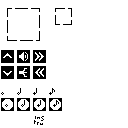
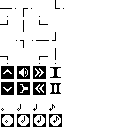
creates belt them dynamically, change atlas sheet

diff --git a/scripts/MusicTilemap.cs b/scripts/MusicTilemap.cs
@@ -4,14 +4,14 @@ using heigpdg2024.scripts.cells;
 
 public partial class MusicTilemap : TileMapLayer {
     [Export] private int _sourceId;
-    [Export] private int _terrainset;
-    [Export] private int _terrain;
 
     private Vector2I _atlasCoords;
-    private Vector2I _lastCell;
+    private Vector2I _lastCellCoords;
+    private Vector2I _lastDirection;
     private Vector2I _beltCoords = Vector2I.Zero;
-    private Vector2I _sourceCoords = new(1, 6);
+    private Vector2I _sourceCoords = new(1, 7);
     private Godot.Collections.Dictionary<Vector2I, bool> _busyCells = new();
+    private Godot.Collections.Dictionary<Vector2I, int> _directionIndexes = new();
 
     public override void _Ready() {
         //There can be only one MusicTilemap per active scene
@@ -19,14 +19,20 @@ public partial class MusicTilemap : TileMapLayer {
         ToolOptionButton toolOption = GetNode<ToolOptionButton>("ToolOptionButton");
         toolOption.ItemSelected += UpdateTool;
         toolOption.SelectedItem += UpdateTool;
+        
+        _directionIndexes.Add(Vector2I.Right, 0);
+        _directionIndexes.Add(Vector2I.Up, 1);
+        _directionIndexes.Add(Vector2I.Left, 2);
+        _directionIndexes.Add(Vector2I.Down, 3);
+        
     }
 
     private void UpdateTool(long index) {
         _atlasCoords = index switch {
             //TODO change to match final atlas spritesheet
             0 => _beltCoords,
-            1 => new Vector2I(0, 3),
-            2 => new Vector2I(0, 4),
+            1 => new Vector2I(0, 4),
+            2 => new Vector2I(0, 5),
             3 => _sourceCoords,
             _ => -Vector2I.One
         };
@@ -35,30 +41,44 @@ public partial class MusicTilemap : TileMapLayer {
     public override void _Input(InputEvent @event) {
         //TODO detect clicks through UI layer
         Vector2I cellCoords = LocalToMap(GetGlobalMousePosition());
-        if (!Godot.Input.IsActionPressed("PrimaryAction") && !Godot.Input.IsActionPressed("SecondaryAction")) {
+        if (!Input.IsActionPressed("PrimaryAction") && 
+            !Input.IsActionPressed("SecondaryAction")) {
             return;
         }
 
-        //Only one action per cell
-        if (_lastCell == cellCoords &&
-            !Godot.Input.IsActionJustPressed("PrimaryAction") &&
-            !Godot.Input.IsActionJustPressed("SecondaryAction")) {
+        //Only one action per cell or only just pressed actions
+        if (_lastCellCoords.Equals(cellCoords) &&
+            !Input.IsActionJustPressed("PrimaryAction") &&
+            !Input.IsActionJustPressed("SecondaryAction")) {
             return;
         }
 
-        //TODO disable when outside window or hovering UI
-        if (Godot.Input.IsActionPressed("PrimaryAction")) {
+        if (Input.IsActionPressed("PrimaryAction")) {
             if (_atlasCoords.Equals(_beltCoords)) {
-                //Handles Belt
-                //Only adjacent cells
-                if (_lastCell.DistanceSquaredTo(cellCoords) > 1) {
-                    _lastCell = cellCoords;
-                    return;
+                if (Input.IsActionJustPressed("PrimaryAction")) {
+                    //Add basic "->" belt
+                    SetCell(cellCoords, _sourceId, Vector2I.Zero);
+                    _lastDirection = Vector2I.Right;
+                    if (!_busyCells.TryAdd(cellCoords, false)) {
+                        _busyCells[cellCoords] = false;
+                    }
                 }
-
-                //SetCellsTerrainPath(new Array<Vector2I>(new[] { _lastCell, cellCoords }), _terrainset, _terrain);
-                if (!_busyCells.TryAdd(cellCoords, false)) {
-                    _busyCells[cellCoords] = false;
+                else {
+                    //Only adjacent cells
+                    if (_lastCellCoords.DistanceSquaredTo(cellCoords) > 1) {
+                        _lastCellCoords = cellCoords;
+                        return;
+                    }
+                    
+                    Vector2I direction = cellCoords - _lastCellCoords;
+                    //Update _lastCellCoords based on direction
+                    SetCell(_lastCellCoords, _sourceId, new Vector2I(_directionIndexes[_lastDirection], _directionIndexes[direction]));
+                    SetCell(cellCoords, _sourceId, new Vector2I(_directionIndexes[direction], _directionIndexes[direction]));
+                    _lastDirection = direction;
+                    
+                    if (!_busyCells.TryAdd(cellCoords, false)) {
+                        _busyCells[cellCoords] = false;
+                    }
                 }
             }
             else if (_atlasCoords.Equals(_sourceCoords)) {
@@ -76,18 +96,17 @@ public partial class MusicTilemap : TileMapLayer {
                 }
             }
         }
-        else if (Godot.Input.IsActionPressed("SecondaryAction")) {
+        else if (Input.IsActionPressed("SecondaryAction")) {
             //Resets the cell
             SetCell(cellCoords);
             _busyCells.Remove(cellCoords);
         }
 
-        _lastCell = cellCoords;
+        _lastCellCoords = cellCoords;
     }
 
     public Processor GetInput(Vector2 worldPos, Vector2I cellOffset) {
-        Vector2I cellCoord = LocalToMap(worldPos);
-        cellCoord += cellOffset;
+        Vector2I cellCoord = LocalToMap(worldPos) + cellOffset;
         TileData data = GetCellTileData(cellCoord);
         if (data == null) {
             return null;
@@ -104,8 +123,10 @@ public partial class MusicTilemap : TileMapLayer {
         Vector2I output = data.GetCustomData("output").AsVector2I();
         return type switch {
             "belt" => new Belt(cellPos, isBusy, input, output),
-            "up" => new UpDown(cellPos, isBusy, input, output, true),
-            "down" => new UpDown(cellPos, isBusy, input, output, false),
+            "pitchUp" => new UpDown(cellPos, isBusy, input, output, true),
+            "pitchDown" => new UpDown(cellPos, isBusy, input, output, false),
+            //"durationUp" => new UpDown(cellPos, isBusy, input, output, true),
+            ///"durationDown" => new UpDown(cellPos, isBusy, input, output, false),
             "merger" => new Merger(cellPos, isBusy, input, output),
             _ => null
         };
@@ -114,7 +135,7 @@ public partial class MusicTilemap : TileMapLayer {
     public Processor GetInput(Vector2 worldPos) {
         return GetInput(worldPos, Vector2I.Zero);
     }
-    
+
     public void SetBusy(Vector2 cellPos, bool busy) {
         _busyCells[LocalToMap(cellPos)] = busy;
     }

diff --git a/scripts/cells/UpDown.cs b/scripts/cells/UpDown.cs
@@ -4,7 +4,9 @@ namespace heigpdg2024.scripts.cells;
 
 public class UpDown : Transit {
     private readonly bool _isUp;
-    public UpDown(Vector2 position, bool isBusy, Vector2I input, Vector2I output, bool isUp) : base(position, isBusy, input, output) {
+
+    public UpDown(Vector2 position, bool isBusy, Vector2I input, Vector2I output, bool isUp) : base(position, isBusy,
+        input, output) {
         _isUp = isUp;
     }
 
@@ -16,7 +18,7 @@ public class UpDown : Transit {
                 break;
             case true:
                 Processor output = GameManager.Instance.Tilemap.GetInput(Position, Output);
-                if (output!= null && output.IsCompatible(Input)) {
+                if (output != null && output.IsCompatible(Output)) {
                     if (_isUp) {
                         note.PitchesUp();
                     }
@@ -27,7 +29,7 @@ public class UpDown : Transit {
                     output.Process(note);
                     GameManager.Instance.Tilemap.SetBusy(Position, false);
                 }
-                
+
                 break;
         }
     }

diff --git a/scripts/cells/Belt.cs b/scripts/cells/Belt.cs
@@ -12,7 +12,7 @@ public class Belt : Transit {
                 break;
             case true:
                 Processor output = GameManager.Instance.Tilemap.GetInput(Position, Output);
-                if (output != null && output.IsCompatible(Input)) {
+                if (output != null && output.IsCompatible(Output)) {
                     output.Process(note);
                     GameManager.Instance.Tilemap.SetBusy(Position, false);
                 }

diff --git a/scripts/cells/Processor.cs b/scripts/cells/Processor.cs
@@ -16,6 +16,6 @@ public abstract class Processor {
     public abstract void Process(Note note);
     
     public bool IsCompatible(Vector2I input) {
-        return !IsBusy && input.Equals(Input);
+        return !IsBusy && input.Equals(-Input);
     }
 }
